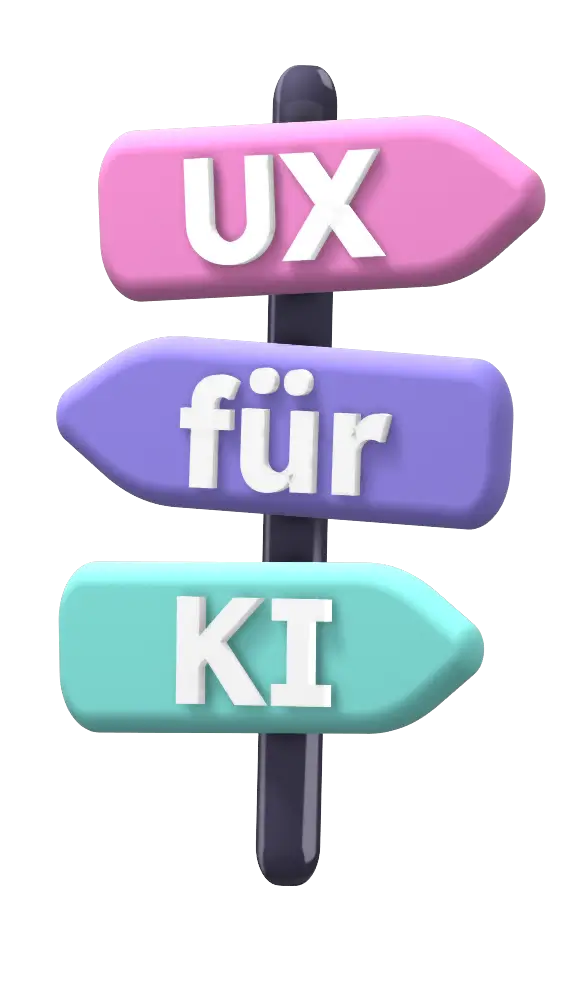
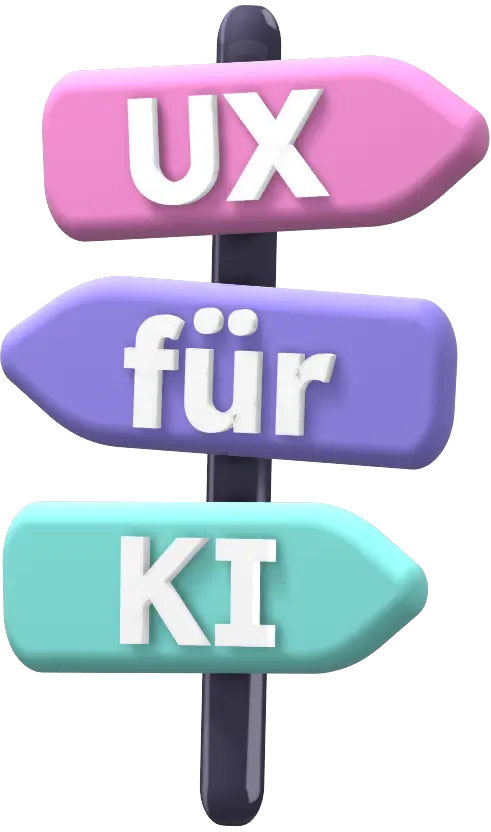
edited wegweiser size

diff --git a/src/components/5_pages/Home.jsx b/src/components/5_pages/Home.jsx
@@ -69,14 +69,14 @@ const Home = () => {
   ];
 
   return (
-    <div className="flex flex-col justify-center items-center gap-20 py-28 px-6 w-full max-w-[1280px]">
-      <SubNavigation sections={sections} />
+    <div className="flex flex-col justify-center items-center gap-24 xl:pt-20 py-28 px-6 w-full max-w-[1280px]">
+    <SubNavigation sections={sections} />
 
       <section
         id="intro"
-        className="flex sm:flex-row flex-col items-center lg:gap-20 md:gap-10 gap-6">
-        <div className="sm:w-[66%] w-full">
-          <h1 className="mb-8">Die Lehrplattform von Wegweiser.UX-für-KI</h1>
+        className="flex sm:flex-row flex-col items-end lg:gap-16 md:gap-10 gap-6">
+        <div className="sm:w-[60%] w-full">
+          <h1 className="mb-8">Lehrplattform von Wegweiser.UX-für-KI</h1>
           <p>
             Unser Projekt bietet Hilfestellungen und praktische Informationen
             über{" "}
@@ -92,7 +92,7 @@ const Home = () => {
             </b>
             unabhängig von ihrem jeweiligen Erfahrungsniveau erstellt.
           </p>
-          <div className="flex lg:flex-row flex-col w-full lg:gap-10 gap-4 justify-between">
+          <div className="flex lg:flex-row flex-col w-full lg:gap-10 gap-4 mb-4 justify-between">
             <div className="lg:w-1/2 w-full">
               <UXButton
                 text={"Alle Module ansehen"}
@@ -102,7 +102,7 @@ const Home = () => {
             </div>
             <div className="lg:w-1/2 w-full">
               <UXButton
-                text={"Erfahren Sie mehr zum Projekt"}
+                text={"Mehr zum Projekt erfahren"}
                 useGlassyBox={true}
                 to={"https://projekt.ux-fuer-ki.de/"}
                 target="_blank"
@@ -110,11 +110,11 @@ const Home = () => {
             </div>
           </div>
         </div>
-        <div className="sm:w-[33%] w-full rotate-6 -translate-x-6">
+        <div className="sm:w-[40%] w-[98%] rotate-6">
           <img
             type={"image"}
             src={WegweiserPng}
-            className="max-w-[450px] w-full"
+            className="max-w-[360px] w-full"
             alt="Wegweiser.UX-für-KI Plattform Logo"
           />
         </div>
@@ -122,7 +122,7 @@ const Home = () => {
 
       <section
         id="vorstellung"
-        className="flex md:flex-row flex-col items-center lg:gap-20 md:gap-10 gap-6">
+        className="flex md:flex-row flex-col items-center lg:gap-16 md:gap-10 gap-6">
         <div className="md:w-[50%] w-full">
           <VideoContainer
             link={
